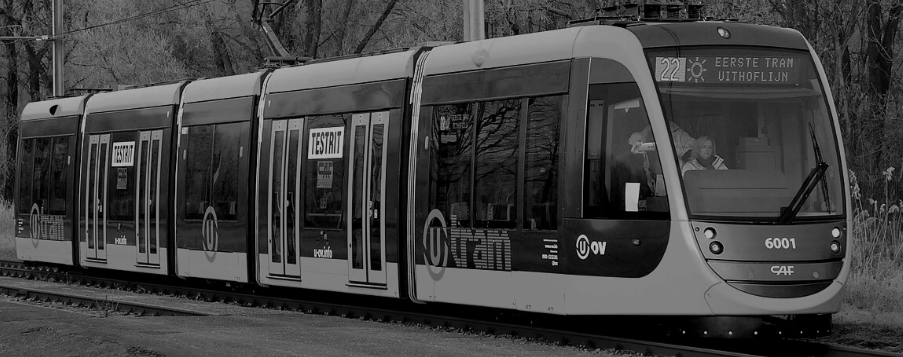
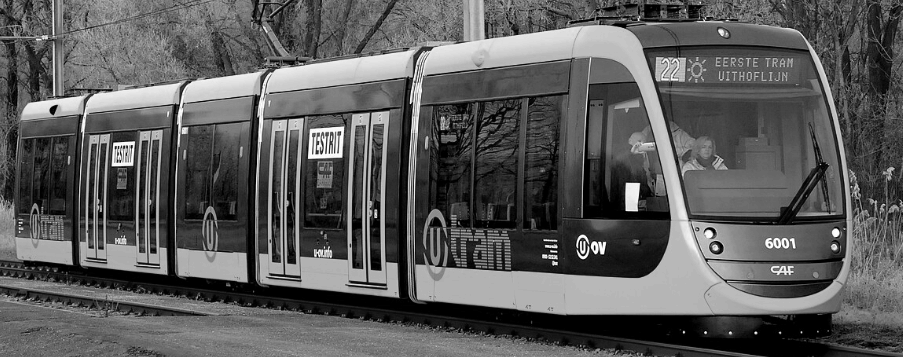
Fixed Contrast Bug, added Histogram function

diff --git a/project_files/MainWindow.axaml.cs b/project_files/MainWindow.axaml.cs
@@ -6,6 +6,7 @@ using Avalonia.Interactivity;
 using Avalonia.Media.Imaging;
 using Avalonia.Platform;
 using Avalonia.Platform.Storage;
+using Avalonia.Input;
 
 namespace ImageApp
 {
@@ -56,10 +57,12 @@ namespace ImageApp
             BinaryCloseImage,
             GrayscaleErodeImage,
             GrayscaleDilateImage,
-            EdgeSharpen,
             Task1,
             Task2,
             Task3,
+            EdgeSharpen,
+            HistogramCheck,
+
         }
         
         private enum FilterOptions
@@ -242,9 +245,10 @@ namespace ImageApp
 
             ApplyButton.IsEnabled = false;
             StatusText.Text = "Processing...";
+            string newStatusText = $"Completed {selected}.";
 
             byte[,,] colorPixels = _loadedColorPixels;
-
+            
             try
             {
                 // Run computation and bitmap generation on a background task
@@ -358,7 +362,40 @@ namespace ImageApp
                                     gray = BinaryCloseImage(gray, structElem);
                                     break;
                                 }
-
+                                case ProcessingFunctions.HistogramCheck:
+                                {  
+                                    List<(int x, int y)>[] hist = GenerateHistogram(gray);
+                                    byte min = 0;
+                                    byte max = 0;
+                                    for (short i = 0; i <= 255; i++)
+                                    {
+                                        if (hist[i].Count > 0)
+                                        {
+                                            min = (byte)i;
+                                            break;
+                                        }
+                                    }
+                                    for (short i = 255; i >= 0; i--)
+                                    {
+                                        if (hist[i].Count > 0)
+                                        {
+                                            max = (byte)i;
+                                            break;
+                                        }
+                                    }
+                                    bool fullContrast = max == 255 && min == 0;
+                                    bool fullDynamicRange = true;
+                                    for (short i = min; i < max; i++)
+                                    {
+                                        if (!(hist[i].Count > 0))
+                                        {
+                                            fullDynamicRange = false;
+                                            break;
+                                        }
+                                    }
+                                    newStatusText = $"This image {(fullContrast ? "has" : "does not have")} maximum contrast and {(fullDynamicRange ? "has" : "does not have")} maximum dynamic range.";
+                                    break;
+                                }
                                 default:
                                     throw new NotSupportedException($"Operation '{selected}' is not implemented in the OnApply switch.");
                             }
@@ -370,7 +407,8 @@ namespace ImageApp
                 _processedGray = resultGray;
                 (ProcessedImage.Source as IDisposable)?.Dispose();
                 ProcessedImage.Source = resultBmp;
-                StatusText.Text = $"Completed {selected}.";
+                StatusText.Text = newStatusText;
+
             }
             catch (Exception ex)
             {
@@ -474,7 +512,12 @@ namespace ImageApp
                 maxValue = inputImage[x, y] > maxValue ? inputImage[x, y] : maxValue;
                 minValue = inputImage[x, y] < minValue ? inputImage[x, y] : minValue;
             }
-            float contrastCoefficient = byte.MaxValue / (maxValue - minValue);
+            float contrastCoefficient = 1f;
+            if (maxValue - minValue > 0)
+            {
+                contrastCoefficient = (float)byte.MaxValue / (maxValue - minValue);
+
+            }
             Debug.WriteLine($"Max Value: {maxValue} Min Value: {minValue} CC: {contrastCoefficient}");
 
             for (int x = 0; x < w; x++)
@@ -891,7 +934,6 @@ namespace ImageApp
         {
             int w = inputImage.GetLength(0);
             int h = inputImage.GetLength(1);
-            short val;
             float result;
             byte[,] output = new byte[w,h];
             for (int x = 0; x < w; x++)
@@ -908,6 +950,23 @@ namespace ImageApp
             return output;
         }
 
+        private List<(int x, int y)>[] GenerateHistogram(byte[,] inputImage)
+        {
+            int w = inputImage.GetLength(0);
+            int h = inputImage.GetLength(1);
+            List<(int x, int y)>[] output = new List<(int x, int y)>[256];
+            for (int i = 0; i < 256; i++)
+            {
+                output[i] = new List<(int x, int y)>();
+            }
+            for (int x = 0; x < w; x++)
+            for (int y = 0; y < h; y++)
+            {
+                (int x, int y) coords = (x, y);
+                output[inputImage[x,y]].Add(coords);
+            }
+            return output;
+        }
 
         // ====================================================================
         // ==================== IMAGE <-> BITMAP HELPERS (given) =============
